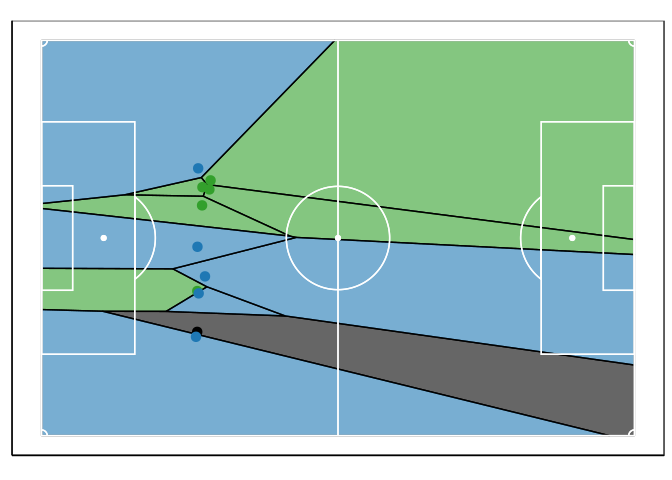
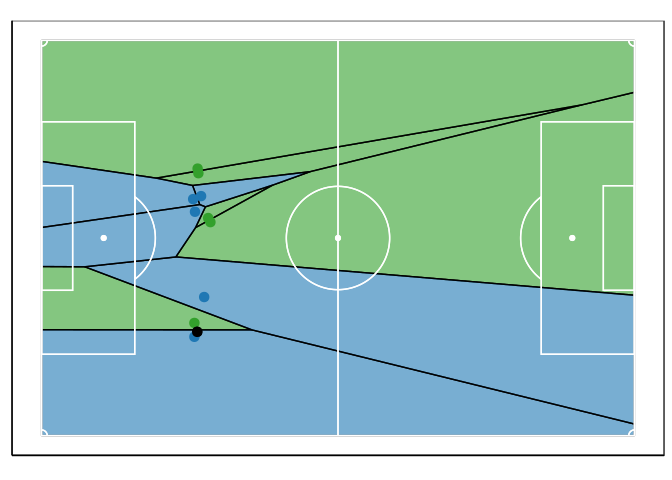
Added windows argument for magick.

diff --git a/README.md b/README.md
@@ -33,6 +33,11 @@ Open R and run this command in the console -
 `install.packages("devtools");` `library(devtools);`
 `install_github("thecomeonman/CodaBonito");`
 
+If you’re interested in running the animated Voronoi, you will also need
+to install ImageMagick from
+<a href="https://imagemagick.org/script/download.php" class="uri">https://imagemagick.org/script/download.php</a>.
+This is a widely used image manipulation library.
+
 And you’re ready to run the examples below!
 
 Data
@@ -139,9 +144,9 @@ their age, etc.
 `dtMetricCategorisation` - some metadata about the metrics. -
 variableLabel is the name that will be displayed in charts for that
 metric, - variableCategory is the grouping of variables used in some
-visualisations, like `fNormalisedValueChart` - HighValueIsBad is marked
-true for variables where a high value is bad. Variables such as fouls
-and goals conceded would be true.
+visualisations, like `fStripChart` - HighValueIsBad is marked true for
+variables where a high value is bad. Variables such as fouls and goals
+conceded would be true.
 
 <table>
 <thead>
@@ -360,203 +365,59 @@ offense. - Success 1 for successful pass, 0 for failed pass
 <thead>
 <tr class="header">
 <th style="text-align: right;">Frame</th>
-<th style="text-align: right;">AwayPlayer0X</th>
-<th style="text-align: right;">AwayPlayer0Y</th>
-<th style="text-align: right;">AwayPlayer1X</th>
-<th style="text-align: right;">AwayPlayer1Y</th>
-<th style="text-align: right;">AwayPlayer2X</th>
-<th style="text-align: right;">AwayPlayer2Y</th>
-<th style="text-align: right;">AwayPlayer3X</th>
-<th style="text-align: right;">AwayPlayer3Y</th>
-<th style="text-align: right;">AwayPlayer4X</th>
-<th style="text-align: right;">AwayPlayer4Y</th>
-<th style="text-align: right;">HomePlayer0X</th>
-<th style="text-align: right;">HomePlayer0Y</th>
-<th style="text-align: right;">HomePlayer1X</th>
-<th style="text-align: right;">HomePlayer1Y</th>
-<th style="text-align: right;">HomePlayer2X</th>
-<th style="text-align: right;">HomePlayer2Y</th>
-<th style="text-align: right;">HomePlayer3X</th>
-<th style="text-align: right;">HomePlayer3Y</th>
-<th style="text-align: right;">HomePlayer4X</th>
-<th style="text-align: right;">HomePlayer4Y</th>
-<th style="text-align: right;">BallPlayerX</th>
-<th style="text-align: right;">BallPlayerY</th>
+<th style="text-align: left;">Tag</th>
+<th style="text-align: left;">Player</th>
+<th style="text-align: right;">X</th>
+<th style="text-align: right;">Y</th>
 </tr>
 </thead>
 <tbody>
 <tr class="odd">
 <td style="text-align: right;">0</td>
-<td style="text-align: right;">32.55586</td>
-<td style="text-align: right;">50.29455</td>
-<td style="text-align: right;">34.20547</td>
-<td style="text-align: right;">51.66439</td>
-<td style="text-align: right;">33.96926</td>
-<td style="text-align: right;">49.83023</td>
-<td style="text-align: right;">32.48622</td>
-<td style="text-align: right;">46.60298</td>
-<td style="text-align: right;">31.51575</td>
-<td style="text-align: right;">29.26053</td>
-<td style="text-align: right;">31.79807</td>
-<td style="text-align: right;">28.79188</td>
-<td style="text-align: right;">33.07794</td>
-<td style="text-align: right;">32.22896</td>
-<td style="text-align: right;">31.25457</td>
-<td style="text-align: right;">20.00000</td>
-<td style="text-align: right;">31.55217</td>
-<td style="text-align: right;">38.22233</td>
-<td style="text-align: right;">31.69750</td>
-<td style="text-align: right;">54.10373</td>
-<td style="text-align: right;">31.5</td>
-<td style="text-align: right;">21</td>
+<td style="text-align: left;">Away</td>
+<td style="text-align: left;">AwayPlayer0</td>
+<td style="text-align: right;">31.74094</td>
+<td style="text-align: right;">53.12027</td>
 </tr>
 <tr class="even">
-<td style="text-align: right;">1</td>
-<td style="text-align: right;">32.90562</td>
-<td style="text-align: right;">50.35286</td>
-<td style="text-align: right;">37.97009</td>
-<td style="text-align: right;">51.83395</td>
-<td style="text-align: right;">34.36936</td>
-<td style="text-align: right;">50.18844</td>
-<td style="text-align: right;">34.04449</td>
-<td style="text-align: right;">46.61486</td>
-<td style="text-align: right;">31.57939</td>
-<td style="text-align: right;">29.47331</td>
-<td style="text-align: right;">33.16570</td>
-<td style="text-align: right;">28.84700</td>
-<td style="text-align: right;">35.02446</td>
-<td style="text-align: right;">32.40506</td>
-<td style="text-align: right;">34.18699</td>
-<td style="text-align: right;">20.37152</td>
-<td style="text-align: right;">31.89392</td>
-<td style="text-align: right;">38.40522</td>
-<td style="text-align: right;">33.64902</td>
-<td style="text-align: right;">54.34768</td>
-<td style="text-align: right;">33.0</td>
-<td style="text-align: right;">22</td>
+<td style="text-align: right;">0</td>
+<td style="text-align: left;">Away</td>
+<td style="text-align: left;">AwayPlayer1</td>
+<td style="text-align: right;">30.93125</td>
+<td style="text-align: right;">22.80409</td>
 </tr>
 <tr class="odd">
-<td style="text-align: right;">2</td>
-<td style="text-align: right;">34.64757</td>
-<td style="text-align: right;">50.49276</td>
-<td style="text-align: right;">39.39422</td>
-<td style="text-align: right;">51.88643</td>
-<td style="text-align: right;">37.61476</td>
-<td style="text-align: right;">50.22465</td>
-<td style="text-align: right;">37.48907</td>
-<td style="text-align: right;">46.64428</td>
-<td style="text-align: right;">31.72541</td>
-<td style="text-align: right;">29.51734</td>
-<td style="text-align: right;">34.51955</td>
-<td style="text-align: right;">29.14071</td>
-<td style="text-align: right;">35.43241</td>
-<td style="text-align: right;">32.43194</td>
-<td style="text-align: right;">34.52284</td>
-<td style="text-align: right;">20.41324</td>
-<td style="text-align: right;">31.96222</td>
-<td style="text-align: right;">38.49100</td>
-<td style="text-align: right;">33.66490</td>
-<td style="text-align: right;">54.40687</td>
-<td style="text-align: right;">34.5</td>
-<td style="text-align: right;">23</td>
+<td style="text-align: right;">0</td>
+<td style="text-align: left;">Away</td>
+<td style="text-align: left;">AwayPlayer2</td>
+<td style="text-align: right;">33.71846</td>
+<td style="text-align: right;">44.04511</td>
 </tr>
 <tr class="even">
-<td style="text-align: right;">3</td>
-<td style="text-align: right;">36.98394</td>
-<td style="text-align: right;">50.51058</td>
-<td style="text-align: right;">39.57247</td>
-<td style="text-align: right;">52.12462</td>
-<td style="text-align: right;">37.93450</td>
-<td style="text-align: right;">50.23367</td>
-<td style="text-align: right;">38.94468</td>
-<td style="text-align: right;">46.88701</td>
-<td style="text-align: right;">36.38850</td>
-<td style="text-align: right;">29.75361</td>
-<td style="text-align: right;">34.78269</td>
-<td style="text-align: right;">29.16300</td>
-<td style="text-align: right;">35.93637</td>
-<td style="text-align: right;">32.89249</td>
-<td style="text-align: right;">36.49239</td>
-<td style="text-align: right;">20.66244</td>
-<td style="text-align: right;">32.10005</td>
-<td style="text-align: right;">38.50102</td>
-<td style="text-align: right;">34.57877</td>
-<td style="text-align: right;">54.63409</td>
-<td style="text-align: right;">36.0</td>
-<td style="text-align: right;">24</td>
+<td style="text-align: right;">0</td>
+<td style="text-align: left;">Away</td>
+<td style="text-align: left;">AwayPlayer3</td>
+<td style="text-align: right;">34.17647</td>
+<td style="text-align: right;">43.21420</td>
 </tr>
 <tr class="odd">
-<td style="text-align: right;">4</td>
-<td style="text-align: right;">38.99220</td>
-<td style="text-align: right;">50.55312</td>
-<td style="text-align: right;">40.07305</td>
-<td style="text-align: right;">52.27400</td>
-<td style="text-align: right;">38.34619</td>
-<td style="text-align: right;">50.31231</td>
-<td style="text-align: right;">42.49844</td>
-<td style="text-align: right;">47.02056</td>
-<td style="text-align: right;">36.83313</td>
-<td style="text-align: right;">29.90822</td>
-<td style="text-align: right;">36.14444</td>
-<td style="text-align: right;">29.16342</td>
-<td style="text-align: right;">39.23561</td>
-<td style="text-align: right;">33.22427</td>
-<td style="text-align: right;">38.33900</td>
-<td style="text-align: right;">20.83137</td>
-<td style="text-align: right;">33.08677</td>
-<td style="text-align: right;">38.53923</td>
-<td style="text-align: right;">35.73584</td>
-<td style="text-align: right;">54.78274</td>
-<td style="text-align: right;">37.5</td>
-<td style="text-align: right;">25</td>
+<td style="text-align: right;">0</td>
+<td style="text-align: left;">Away</td>
+<td style="text-align: left;">AwayPlayer4</td>
+<td style="text-align: right;">31.58153</td>
+<td style="text-align: right;">54.04715</td>
 </tr>
 <tr class="even">
-<td style="text-align: right;">5</td>
-<td style="text-align: right;">40.09334</td>
-<td style="text-align: right;">50.74373</td>
-<td style="text-align: right;">41.89556</td>
-<td style="text-align: right;">52.43318</td>
-<td style="text-align: right;">39.75834</td>
-<td style="text-align: right;">50.42094</td>
-<td style="text-align: right;">44.38057</td>
-<td style="text-align: right;">47.29533</td>
-<td style="text-align: right;">39.25388</td>
-<td style="text-align: right;">29.92609</td>
-<td style="text-align: right;">36.58014</td>
-<td style="text-align: right;">29.29511</td>
-<td style="text-align: right;">40.47152</td>
-<td style="text-align: right;">33.36805</td>
-<td style="text-align: right;">39.15145</td>
-<td style="text-align: right;">21.05101</td>
-<td style="text-align: right;">35.87850</td>
-<td style="text-align: right;">38.62949</td>
-<td style="text-align: right;">36.36883</td>
-<td style="text-align: right;">55.00029</td>
-<td style="text-align: right;">39.0</td>
-<td style="text-align: right;">26</td>
+<td style="text-align: right;">0</td>
+<td style="text-align: left;">Ball</td>
+<td style="text-align: left;">Ball</td>
+<td style="text-align: right;">31.50000</td>
+<td style="text-align: right;">21.00000</td>
 </tr>
 <tr class="odd">
 <td style="text-align: right;">## Visua</td>
-<td style="text-align: right;">lisations</td>
-<td style="text-align: right;"></td>
-<td style="text-align: right;"></td>
-<td style="text-align: right;"></td>
-<td style="text-align: right;"></td>
-<td style="text-align: right;"></td>
-<td style="text-align: right;"></td>
-<td style="text-align: right;"></td>
-<td style="text-align: right;"></td>
-<td style="text-align: right;"></td>
-<td style="text-align: right;"></td>
-<td style="text-align: right;"></td>
-<td style="text-align: right;"></td>
-<td style="text-align: right;"></td>
-<td style="text-align: right;"></td>
-<td style="text-align: right;"></td>
-<td style="text-align: right;"></td>
-<td style="text-align: right;"></td>
-<td style="text-align: right;"></td>
-<td style="text-align: right;"></td>
+<td style="text-align: left;">lisatio</td>
+<td style="text-align: left;">ns</td>
 <td style="text-align: right;"></td>
 <td style="text-align: right;"></td>
 </tr>
@@ -600,9 +461,9 @@ theme\_pitch
 
 ![](README_files/figure-markdown_strict/theme_pitch-1.png)
 
-### fNormalisedValueChart
+### fStripChart
 
-    pNormalisedValueChart = fNormalisedValueChart (
+    pStripChart = fStripChart (
        dtPlayerMetrics,
        vcColumnsToIndex = c('playerId','PlayerName','TeamName'),
        dtMetricCategorisation,
@@ -611,9 +472,9 @@ theme\_pitch
     )
     #> Warning: `expand_scale()` is deprecated; use `expansion()` instead.
 
-    print(pNormalisedValueChart)
+    print(pStripChart)
 
-![](README_files/figure-markdown_strict/fNormalisedValueChart-1.png)
+![](README_files/figure-markdown_strict/fStripChart-1.png)
 
 ### fPercentileBarChart
 
@@ -839,7 +700,7 @@ WIP using the same data structure as
 <a href="https://github.com/metrica-sports/sample-data" class="uri">https://github.com/metrica-sports/sample-data</a>
 
     pVoronoi = fDrawVoronoiFromTable(
-       fConvertTrackingDataWideToLong(dtTrackingSlice[Frame == min(Frame)]),
+       dtTrackingSlice[Frame == min(Frame)],
        nXLimit = 120,
        nYLimit = 80
     )
@@ -851,7 +712,7 @@ WIP using the same data structure as
 And if you have multiple frames -
 
     voronoiOutput = fDrawVoronoiFromTable(
-       fConvertTrackingDataWideToLong(dtTrackingSlice),
+       dtTrackingSlice,
        nXLimit = nXLimit,
        nYLimit = nYLimit,
        UseOneFrameEvery = 1,
@@ -921,7 +782,7 @@ nature of the data.
     )
 
     print(fGetEMDFromDetailedEMD(lprec))
-    #> [1] 0.340231
+    #> [1] 0.4536791
 
     # This value should be the same as that computed by emdist package's emd function.
     # EMD needs the weightage of each point, which is assigned as equal in our
